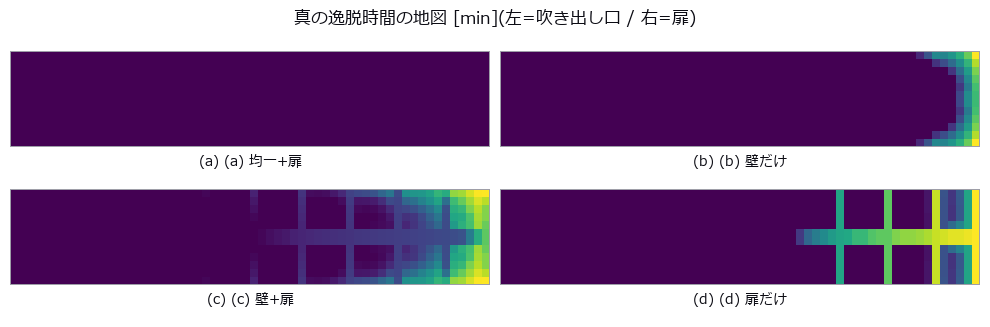
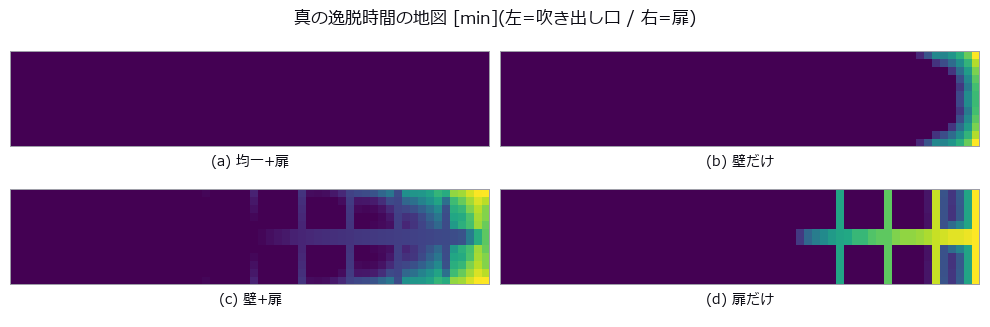
auto: poc_weld_bead_scan_angle.py 編集前 (2026-09-08 04:51)

diff --git a/examples/poc_cold_chain_excursion.py b/examples/poc_cold_chain_excursion.py
@@ -799,7 +799,7 @@ def section_controls(layout: dict) -> dict:
                         rows, title="要因を 1 つずつ止める")
         figs.save_grid("control_maps",
                        [plan_view(v["exc_true"]) for v in (a, b, c, d)],
-                       ["(a) 均一+扉", "(b) 壁だけ", "(c) 壁+扉", "(d) 扉だけ"],
+                       ["均一+扉", "壁だけ", "壁+扉", "扉だけ"],
                        title="真の逸脱時間の地図 [min](左=吹き出し口 / 右=扉)",
                        ncols=2)
     return out
